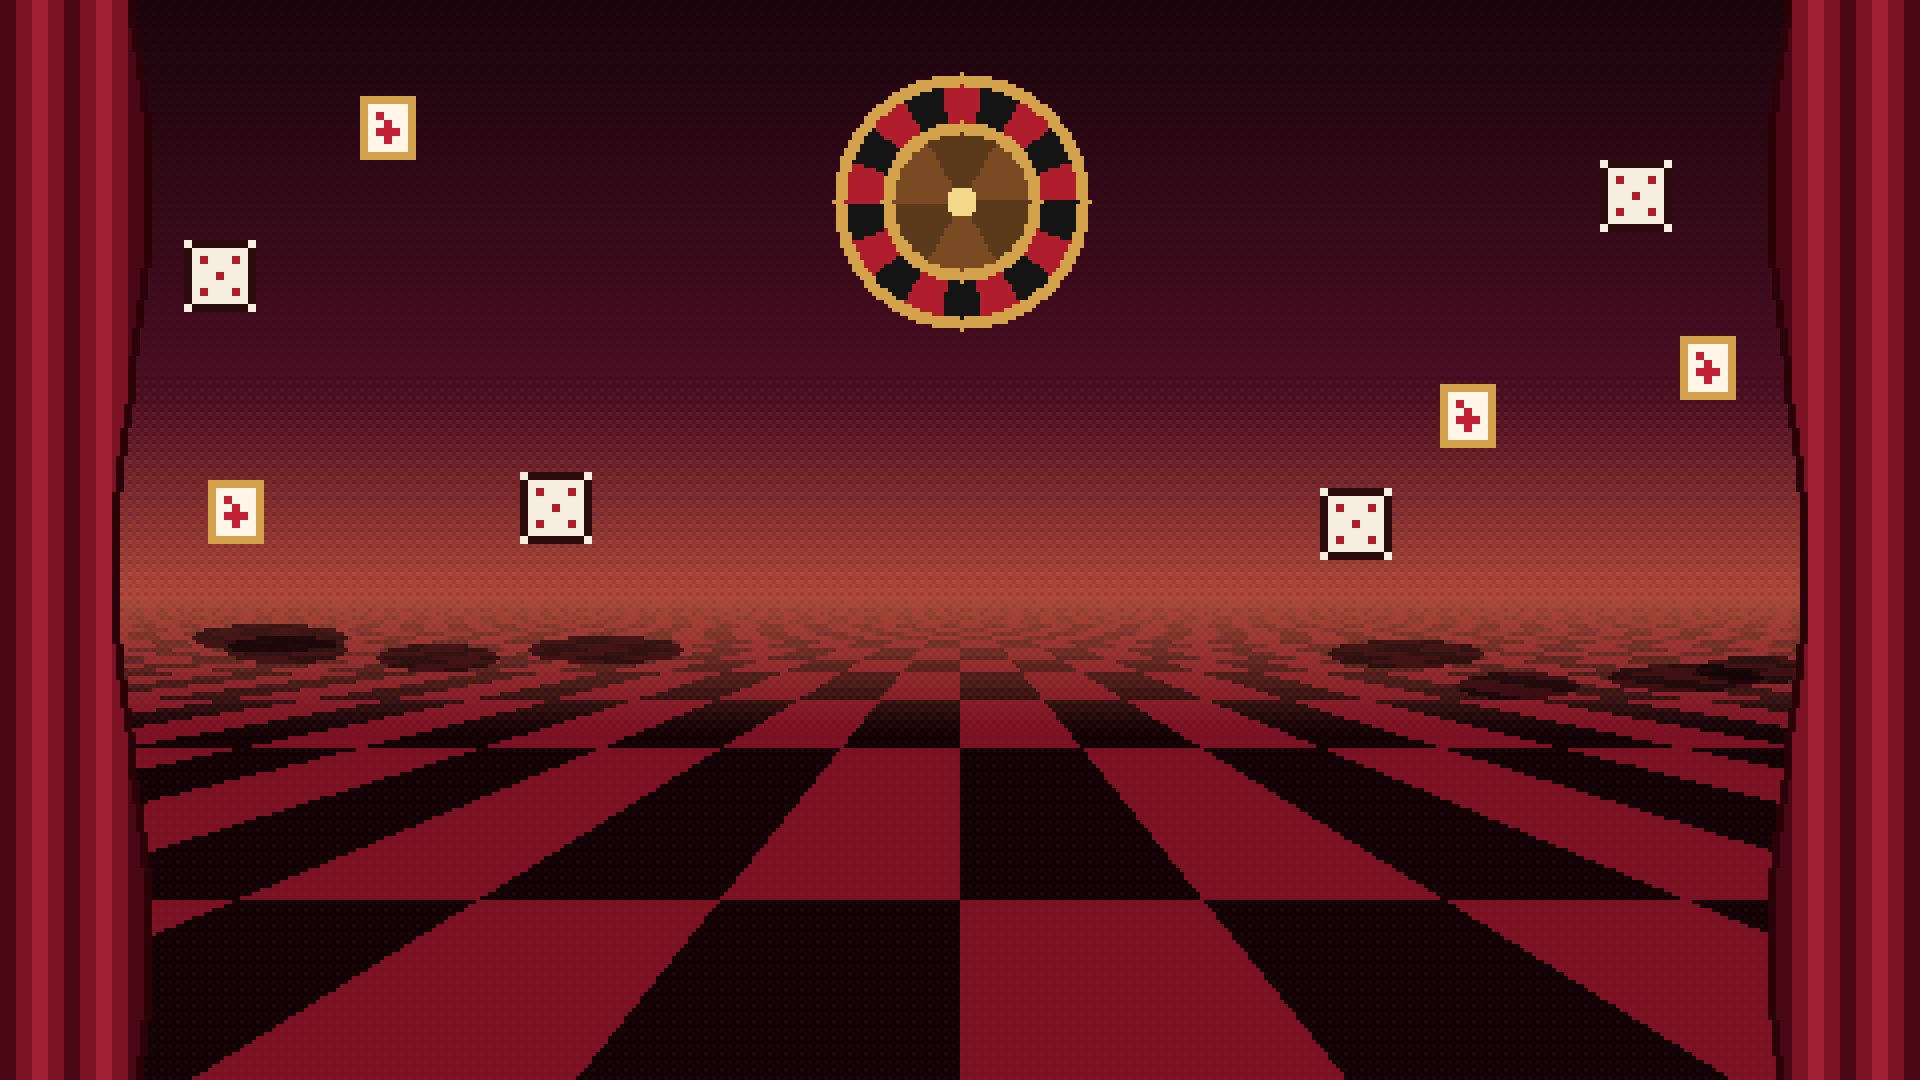
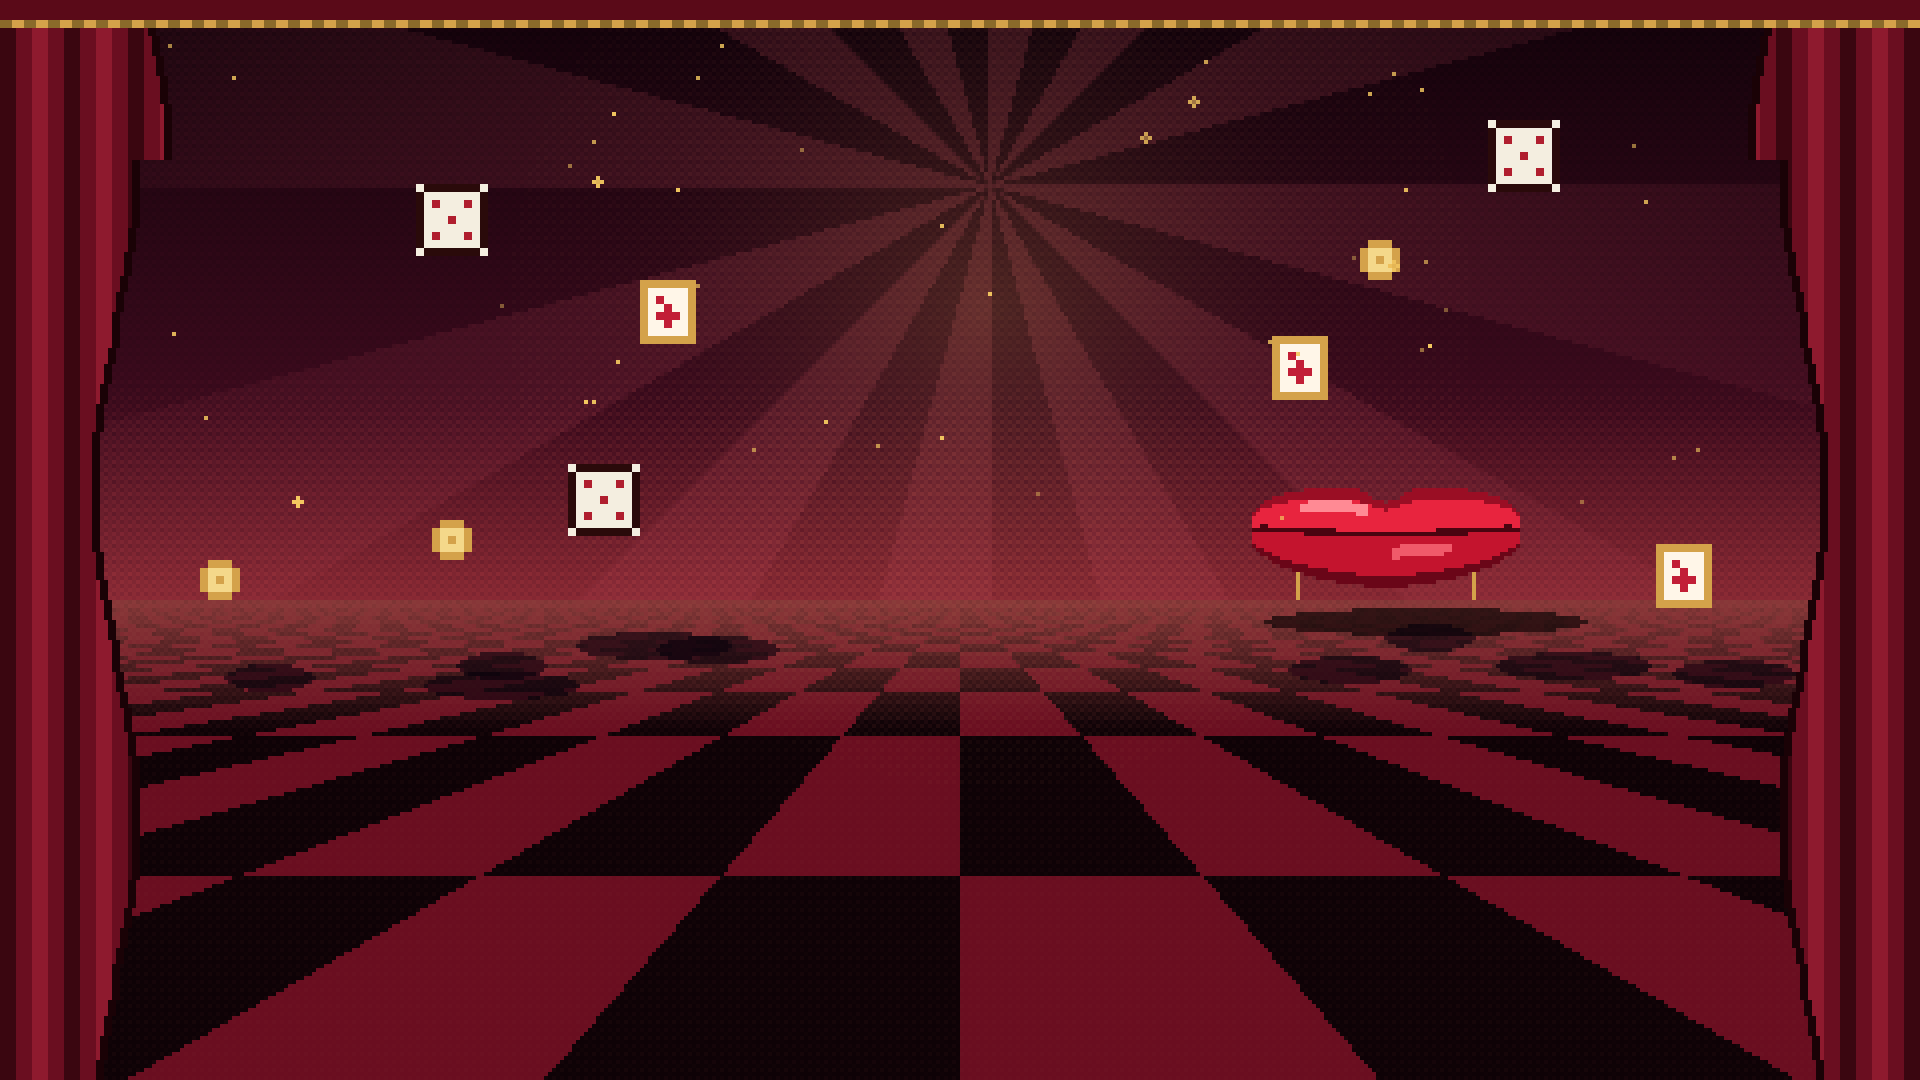
Lady Luck boss raundu: karakter çizimi + yeni sürreal sahne (GDD 15.4)

diff --git a/style.css b/style.css
@@ -9680,6 +9680,17 @@ html[data-theme="boss"] .gm-stage #pileCol #deckCount.gm-deck-count { color: var
    her sahnede ayrışır (eskiden kalanlar sabit açık yeşildi, beyaz 'dolu'yla karışıyordu). */
 html[data-theme="boss"] .gm-stage .gm-turn i { background: var(--boss-pip-off, rgba(0, 0, 0, .45)); box-shadow: inset 0 0 0 3px var(--boss-pip, var(--gm-turn-on)); opacity: .75; }
 html[data-theme="boss"] .gm-stage .gm-turn i.on { background: var(--boss-pip, var(--gm-turn-on)); box-shadow: 0 0 0 2px rgba(0, 0, 0, .55), 0 0 12px var(--boss-glow-soft); opacity: 1; }
+/* P82 — boss karakter çizimi (Figma): sahneye gömülmez, tuvalin içinde en alttaki
+   katman — ekran oranı değişse de arayüze göre taslaktaki yerinde durur.
+   Kutusu (--boss-char-*) build_boss_ui.py BOSS_CHARS'tan yazılır; çizimi olmayan boss'ta boş. */
+html[data-theme="boss"] #gameScreen .gm-stage::before {
+  content: ''; position: absolute; z-index: -1; pointer-events: none;
+  left: var(--boss-char-x, 0); top: var(--boss-char-y, 0);
+  width: var(--boss-char-w, 0); height: var(--boss-char-h, 0);
+  background: var(--boss-char, none) center / 100% 100% no-repeat;
+  image-rendering: auto;
+  filter: drop-shadow(0 0 2px var(--boss-glow-soft)) drop-shadow(0 0 30px rgba(0, 0, 0, .55));
+}
 /* @@BOSS-UI-BEGIN — tools/theme/build_boss_ui.py ÜRETİR, elle düzenleme */
 html[data-theme="boss"][data-boss-ui="godzilla"] {
   --gm-dark: #173A4A; --gm-light: #DDF2F8; --gm-panel: #6FB8D8; --gm-bg: #173A4A;
@@ -10415,6 +10426,8 @@ html[data-theme="boss"][data-boss-ui="ladyLuck"] {
   --img-tray-3: url('assets/game/boss/lady-luck/tray-3.svg');
   --img-tray-4: url('assets/game/boss/lady-luck/tray-4.svg');
   --img-tile-back: url('assets/game/boss/lady-luck/tile-back.png');
+  --boss-char: url('assets/game/boss/lady-luck/character.png');
+  --boss-char-x: 706px; --boss-char-y: 0px; --boss-char-w: 542px; --boss-char-h: 793px;
   --st-edge: #5E1022; --st-edge-soft: rgba(94, 16, 34, .38); --st-bg: #FFF1DE;
   --st-head: #5E1022; --st-rule: rgba(94, 16, 34, .35); --st-glow: rgba(244, 200, 96, .25);
 }

diff --git a/index.html b/index.html
@@ -4,7 +4,7 @@
 <meta charset="UTF-8">
 <meta name="viewport" content="width=device-width, initial-scale=1">
 <title>OKEY Roguelike — Prototip</title>
-<link rel="stylesheet" href="style.css?v=c0659b5">
+<link rel="stylesheet" href="style.css?v=7d5f383">
 <script>
 /* RENK TEMASI — İLK BOYAMADAN ÖNCE UYGULANIR.
    Tema `html[data-theme]` ile sürülüyor. Bu satır ui.js'e bırakılsaydı
@@ -489,8 +489,8 @@
   </div>
 
 </div>
-<script src="engine.js?v=c0659b5"></script>
-<script src="i18n.js?v=c0659b5"></script>
-<script src="ui.js?v=c0659b5"></script>
+<script src="engine.js?v=7d5f383"></script>
+<script src="i18n.js?v=7d5f383"></script>
+<script src="ui.js?v=7d5f383"></script>
 </body>
 </html>
